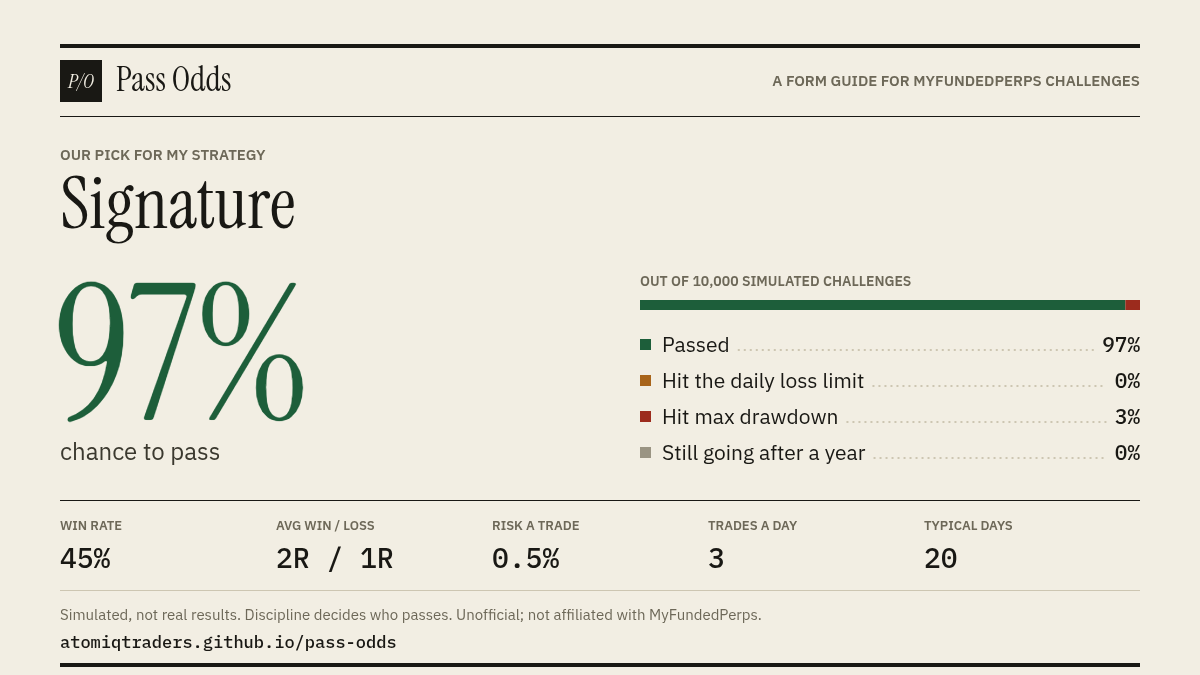
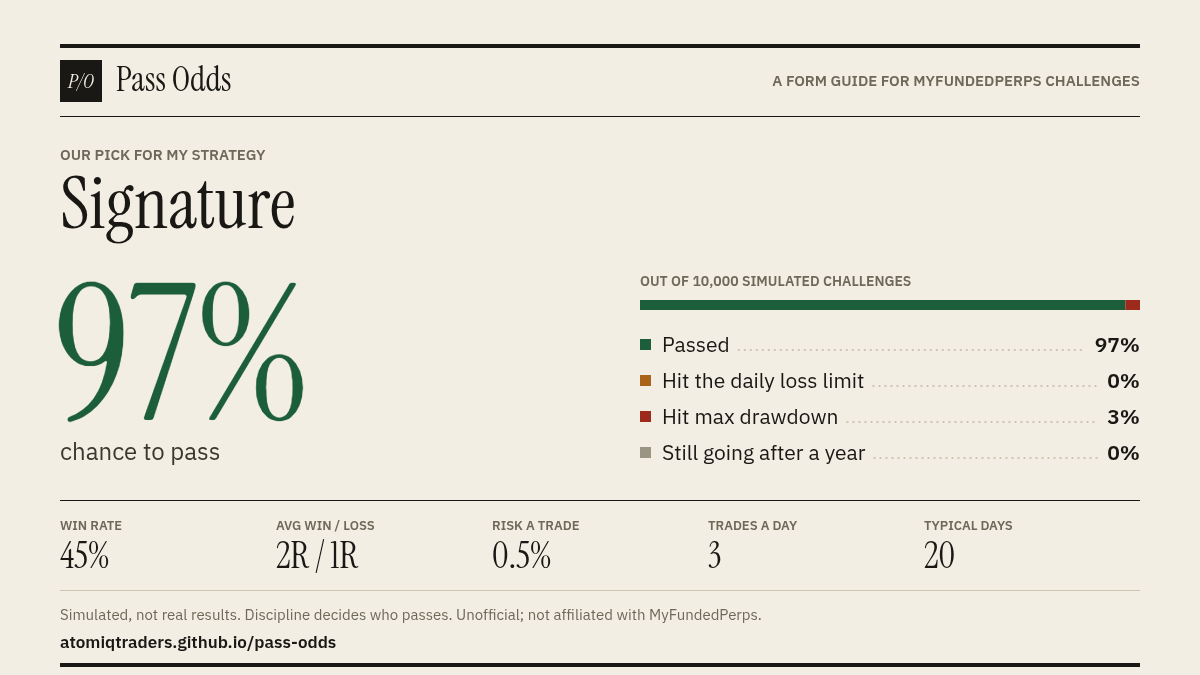
Drop the monospace look; print-style figures
Numbers now use Instrument Serif and IBM Plex Sans with aligned figures
instead of a monospace face, so the page reads like a printed form guide
rather than a code editor. Plain rank numbers, "our pick" in italic,
roman-numeral tabs, and a matching share card and link preview.

diff --git a/css/style.css b/css/style.css
@@ -15,7 +15,6 @@
   --focus: #1f4fbf;
   --serif: "Instrument Serif", Georgia, "Times New Roman", serif;
   --sans: "IBM Plex Sans", "Helvetica Neue", Arial, sans-serif;
-  --mono: "IBM Plex Mono", ui-monospace, Menlo, Consolas, monospace;
   color-scheme: light;
 }
 @media (prefers-color-scheme: dark) {
@@ -35,13 +34,13 @@
 
 * { box-sizing: border-box; }
 html { -webkit-text-size-adjust: 100%; }
-body { margin: 0; background: var(--paper); color: var(--ink); font: 15px/1.55 var(--sans); }
+body { margin: 0; background: var(--paper); color: var(--ink); font: 15px/1.55 var(--sans); font-variant-numeric: lining-nums tabular-nums; }
 a { color: inherit; text-decoration-thickness: 1px; text-underline-offset: 3px; }
 .wrap { max-width: 1140px; margin: 0 auto; padding: 0 16px; }
 .muted { color: var(--muted); }
 .small { font-size: 13px; }
 .caps { font: 600 11px/1.4 var(--sans); letter-spacing: .12em; text-transform: uppercase; color: var(--muted); }
-.num { font-family: var(--mono); font-weight: 500; }
+.num { font-family: var(--serif); font-style: italic; }
 [hidden] { display: none !important; }
 
 /* ---------- masthead ---------- */
@@ -66,7 +65,7 @@ nav.tabs button {
   appearance: none; border: 0; background: none; color: var(--muted); cursor: pointer;
   font: 400 22px/1 var(--serif); padding: 10px 0 12px; border-bottom: 3px solid transparent; margin-bottom: -1px;
 }
-nav.tabs button .num { font-size: 13px; margin-right: 4px; }
+nav.tabs button .num { margin-right: 2px; }
 nav.tabs button[aria-selected="true"] { color: var(--ink); border-bottom-color: var(--ink); }
 nav.tabs button:hover { color: var(--ink); }
 
@@ -84,7 +83,8 @@ nav.tabs button:hover { color: var(--ink); }
 /* ---------- form ---------- */
 fieldset { border: 0; margin: 0; padding: 16px 0 4px; border-top: 1px solid var(--rule); min-width: 0; }
 legend { float: left; width: 100%; padding: 0; margin: 0 0 12px; font: 400 21px/1.2 var(--serif); }
-legend .num { font-size: 12px; display: inline-block; width: 20px; height: 20px; line-height: 18px; text-align: center; border: 1px solid var(--ink); margin-right: 8px; vertical-align: 3px; }
+legend .num { font-size: 21px; margin-right: 6px; color: var(--muted); }
+legend .num::after { content: "."; }
 legend + * { clear: both; }
 .field { display: grid; gap: 5px; margin-bottom: 14px; }
 .field > label, .fieldlabel, .labelrow label { font-size: 13px; font-weight: 600; }
@@ -97,14 +97,13 @@ input, select {
   transition: border-color .15s ease, background-color .15s ease;
 }
 select option, select optgroup { background: var(--paper); color: var(--ink); }
-input[type="number"] { font-family: var(--mono); }
 select { cursor: pointer; }
 input:focus, select:focus { outline: none; border-bottom: 2px solid var(--focus); background: var(--paper-2); }
 :focus-visible { outline: 2px solid var(--focus); outline-offset: 2px; }
 input:focus-visible, select:focus-visible { outline: none; }
 .labelrow { display: flex; align-items: baseline; justify-content: space-between; gap: 8px; }
-.readout { display: inline-flex; align-items: baseline; gap: 2px; font: 500 22px var(--mono); }
-.readout input { width: 78px; text-align: right; font: 500 22px var(--mono); padding: 0 2px; min-height: 32px; border-bottom-color: var(--rule); }
+.readout { display: inline-flex; align-items: baseline; gap: 2px; font: 400 30px/1 var(--serif); }
+.readout input { width: 84px; text-align: right; font: 400 30px/1 var(--serif); padding: 0 2px; min-height: 36px; border-bottom-color: var(--rule); }
 .inline { display: flex; gap: 10px; align-items: end; }
 .inline > input { flex: 1; }
 
@@ -126,7 +125,7 @@ input[type="range"]:focus-visible { outline: 2px solid var(--focus); outline-off
 .seg label:has(input:checked) { background: var(--ink); color: var(--paper); }
 .seg label:has(input:focus-visible), .chipsel label:has(input:focus-visible) { outline: 2px solid var(--focus); outline-offset: 2px; }
 .chipsel { display: grid; grid-template-columns: repeat(4, 1fr); border: 1px solid var(--ink); margin-bottom: 8px; }
-.chipsel label { font-family: var(--mono); font-weight: 500; }
+.chipsel label { font-weight: 600; }
 .chipsel label + label { border-left: 1px solid var(--ink); }
 .chipsel label:has(input:checked) { background: var(--ink); color: var(--paper); }
 
@@ -166,7 +165,7 @@ input[type="range"]:focus-visible { outline: 2px solid var(--focus); outline-off
 .big.bump { animation: nudge .35s ease; }
 @keyframes nudge { 40% { transform: translateY(-3px); } }
 .pass-label { font-size: 14px; color: var(--ink-2); margin-top: 6px; }
-.price { font: 500 13px var(--mono); color: var(--muted); margin-top: 4px; }
+.price { font: italic 400 18px var(--serif); color: var(--muted); margin-top: 4px; }
 .stackbar { display: flex; height: 10px; background: var(--paper-2); margin: 10px 0; }
 .stackbar span { display: block; height: 100%; width: 0; transition: width .7s cubic-bezier(.2,.7,.2,1); }
 .seg-pass { background: var(--pass); }
@@ -176,7 +175,7 @@ input[type="range"]:focus-visible { outline: 2px solid var(--focus); outline-off
 .legend { list-style: none; margin: 0; padding: 0; display: grid; gap: 2px; font-size: 14px; }
 .legend li { display: flex; align-items: baseline; gap: 8px; }
 .legend li::after { content: ""; flex: 1; order: 2; border-bottom: 1px dotted var(--rule); }
-.legend b { order: 3; font: 500 14px var(--mono); }
+.legend b { order: 3; font-weight: 600; }
 .legend i { width: 9px; height: 9px; display: inline-block; flex: none; }
 .legend i.k-pass { background: var(--pass); }
 .legend i.k-dll { background: var(--dll); }
@@ -187,7 +186,7 @@ input[type="range"]:focus-visible { outline: 2px solid var(--focus); outline-off
 dl.stats { display: grid; grid-template-columns: repeat(auto-fit, minmax(150px, 1fr)); gap: 0 16px; margin: 22px 0 0; border-top: 1px solid var(--rule-strong); }
 dl.stats > div { padding: 10px 0; border-bottom: 1px solid var(--rule); }
 dl.stats dt { font: 600 11px/1.3 var(--sans); letter-spacing: .1em; text-transform: uppercase; color: var(--muted); }
-dl.stats dd { margin: 4px 0 2px; font: 500 22px var(--mono); }
+dl.stats dd { margin: 4px 0 2px; font: 400 30px/1.1 var(--serif); }
 dl.stats .s { font-size: 12.5px; color: var(--muted); }
 
 .warn, .err { border-left: 3px solid var(--dll); padding: 8px 12px; font-size: 14px; margin: 14px 0 0; background: var(--paper-2); }
@@ -205,11 +204,12 @@ table { width: 100%; border-collapse: collapse; }
 th { font: 600 11px var(--sans); letter-spacing: .1em; text-transform: uppercase; color: var(--muted); text-align: left; padding: 8px 8px 6px 0; border-bottom: 1px solid var(--rule-strong); white-space: nowrap; }
 td { padding: 9px 8px 9px 0; border-bottom: 1px solid var(--rule); font-size: 14px; white-space: nowrap; }
 td.r, th.r { text-align: right; }
-td.r, td:first-child { font-family: var(--mono); }
+td:first-child { color: var(--muted); font: italic 400 17px var(--serif); }
+td.r { font-weight: 500; }
 td:nth-child(2) { font: 400 19px var(--serif); }
 tbody tr[data-key] { cursor: pointer; transition: background-color .12s ease; }
 tbody tr[data-key]:hover, tbody tr[data-key]:focus-visible { background: var(--paper-2); outline: none; }
-tr.best td:nth-child(2)::after { content: "PICK"; font: 600 10px var(--sans); letter-spacing: .12em; border: 1px solid currentColor; padding: 1px 5px; margin-left: 8px; vertical-align: 3px; color: var(--pass); }
+tr.best td:nth-child(2)::after { content: "our pick"; font: italic 400 16px var(--serif); margin-left: 8px; color: var(--pass); }
 tr.current td { background: var(--paper-2); }
 tr.current td:nth-child(2) { font-style: italic; }
 
@@ -217,7 +217,7 @@ tr.current td:nth-child(2) { font-style: italic; }
 .tips { list-style: none; margin: 10px 0 0; padding: 0; }
 .tips li { display: flex; flex-wrap: wrap; align-items: baseline; gap: 4px 10px; padding: 9px 0; border-bottom: 1px solid var(--rule); }
 .tips li .what { flex: 1 1 260px; font-size: 15px; }
-.tips li .fx { font: 500 13px var(--mono); white-space: nowrap; }
+.tips li .fx { font-size: 13.5px; font-weight: 500; white-space: nowrap; }
 .up { color: var(--pass); }
 .down { color: var(--maxdd); }
 
@@ -227,7 +227,7 @@ tr.current td:nth-child(2) { font-style: italic; }
 /* ---------- sizer output ---------- */
 .size-out .side { font: 600 11px var(--sans); letter-spacing: .12em; text-transform: uppercase; color: var(--muted); border-top: 3px solid var(--rule-strong); padding-top: 12px; }
 .size-out .bigline { font: 400 clamp(48px, 8vw, 80px)/1 var(--serif); margin: 6px 0 4px; overflow-wrap: anywhere; }
-.size-out .bigline .unit { font: 500 18px var(--mono); color: var(--muted); margin-left: 6px; }
+.size-out .bigline .unit { font: italic 400 0.4em var(--serif); color: var(--muted); margin-left: 8px; }
 .size-out h3 { font: 400 22px var(--serif); margin: 22px 0 4px; }
 
 /* ---------- mobile odds strip ---------- */

diff --git a/js/app.js b/js/app.js
@@ -208,7 +208,7 @@ function compute(input) {
 
 // Canvas text only uses web fonts once they're loaded, so wait for the faces the card uses.
 const cardFonts = Promise.all(
-  ['400 40px "Instrument Serif"', 'italic 400 40px "Instrument Serif"', '400 20px "IBM Plex Sans"', '600 20px "IBM Plex Sans"', '500 20px "IBM Plex Mono"']
+  ['400 40px "Instrument Serif"', 'italic 400 40px "Instrument Serif"', '400 20px "IBM Plex Sans"', '600 20px "IBM Plex Sans"']
     .map((f) => document.fonts.load(f).catch(() => null)),
 ).catch(() => null);
 
@@ -394,7 +394,7 @@ function drawPaths(r, progress = 1) {
   const X = (d) => L + (Math.min(d, xMax) / xMax) * (W - L - R);
   const Y = (e) => T + (1 - (e - lo) / (hi - lo)) * (H - T - B);
 
-  ctx.font = `12px "IBM Plex Mono", ui-monospace, monospace`;
+  ctx.font = `12px "IBM Plex Sans", Arial, sans-serif`;
   ctx.fillStyle = css("--muted");
   ctx.textBaseline = "middle";
   const line = (y, color, label, dash, labelColor = color) => {
@@ -472,7 +472,7 @@ function renderRanking(rec, view) {
     const isView = c.plan.id === view.plan.id && (!rec.sizeMatters || c.size === view.size);
     const cls = [i === 0 ? "best" : "", isView && !view.isBest ? "current" : ""].join(" ");
     const key = `${c.plan.id}|${c.size}`;
-    return `<tr class="${cls}" data-key="${esc(key)}" tabindex="0" title="Show this account"><td>${String(i + 1).padStart(2, "0")}</td><td>${esc(label(c))}</td><td class="r">${pct(c.plan.target)}</td><td class="r">${c.plan.dll == null ? "none" : pct(c.plan.dll)}</td><td class="r">${pct(c.plan.maxDD)}</td><td class="r">${pct(p.pass)}</td><td class="r">${pct(p.fail)}</td><td class="r">${c.median ?? "–"}</td></tr>`;
+    return `<tr class="${cls}" data-key="${esc(key)}" tabindex="0" title="Show this account"><td>${i + 1}</td><td>${esc(label(c))}</td><td class="r">${pct(c.plan.target)}</td><td class="r">${c.plan.dll == null ? "none" : pct(c.plan.dll)}</td><td class="r">${pct(c.plan.maxDD)}</td><td class="r">${pct(p.pass)}</td><td class="r">${pct(p.fail)}</td><td class="r">${c.median ?? "–"}</td></tr>`;
   }).join("");
   const notes = [];
   notes.push(rec.sizeMatters

diff --git a/js/card.js b/js/card.js
@@ -7,7 +7,6 @@ const C = {
 };
 const SERIF = '"Instrument Serif", Georgia, "Times New Roman", serif';
 const SANS = '"IBM Plex Sans", "Helvetica Neue", Arial, sans-serif';
-const MONO = '"IBM Plex Mono", ui-monospace, Menlo, monospace';
 
 const pct = (x) => `${Math.round(x * 100)}%`;
 
@@ -99,7 +98,7 @@ export function drawCard(canvas, result, { siteUrl = "", isBest = false, sizeMat
     ctx.font = `400 21px ${SANS}`;
     ctx.fillText(label, x0 + 22, y);
     const lw = ctx.measureText(label).width;
-    ctx.font = `500 21px ${MONO}`;
+    ctx.font = `600 21px ${SANS}`;
     const val = pct(v);
     const vw = ctx.measureText(val).width;
     ctx.textAlign = "right";
@@ -126,7 +125,7 @@ export function drawCard(canvas, result, { siteUrl = "", isBest = false, sizeMat
     ctx.font = `600 13px ${SANS}`;
     ctx.fillText(k, cx, 530);
     ctx.fillStyle = C.ink;
-    ctx.font = `500 28px ${MONO}`;
+    ctx.font = `400 36px ${SERIF}`;
     ctx.fillText(v, cx, 568);
   });
   rule(ctx, L, R, 590, 1, C.rule);
@@ -137,7 +136,7 @@ export function drawCard(canvas, result, { siteUrl = "", isBest = false, sizeMat
   ctx.fillText("Simulated, not real results. Discipline decides who passes. Unofficial; not affiliated with MyFundedPerps.", L, 620);
   if (siteUrl) {
     ctx.fillStyle = C.ink;
-    ctx.font = `500 17px ${MONO}`;
+    ctx.font = `600 17px ${SANS}`;
     ctx.fillText(siteUrl.replace(/^https?:\/\//, "").replace(/\/$/, ""), L, 648);
   }
   rule(ctx, L, R, 663, 4);

diff --git a/index.html b/index.html
@@ -14,7 +14,7 @@
   <link rel="icon" href="logo.svg" type="image/svg+xml">
   <link rel="preconnect" href="https://fonts.googleapis.com">
   <link rel="preconnect" href="https://fonts.gstatic.com" crossorigin>
-  <link rel="stylesheet" href="https://fonts.googleapis.com/css2?family=IBM+Plex+Mono:wght@400;500;600&family=IBM+Plex+Sans:ital,wght@0,400;0,500;0,600;1,400&family=Instrument+Serif:ital@0;1&display=swap">
+  <link rel="stylesheet" href="https://fonts.googleapis.com/css2?family=IBM+Plex+Sans:ital,wght@0,400;0,500;0,600;1,400&family=Instrument+Serif:ital@0;1&display=swap">
   <link rel="stylesheet" href="css/style.css">
 </head>
 <body>
